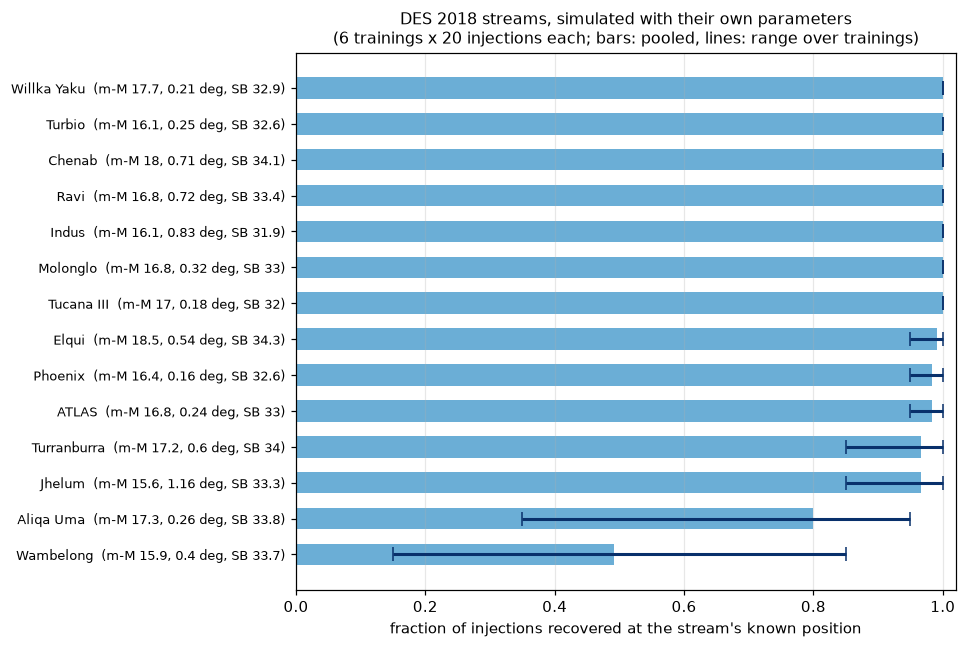
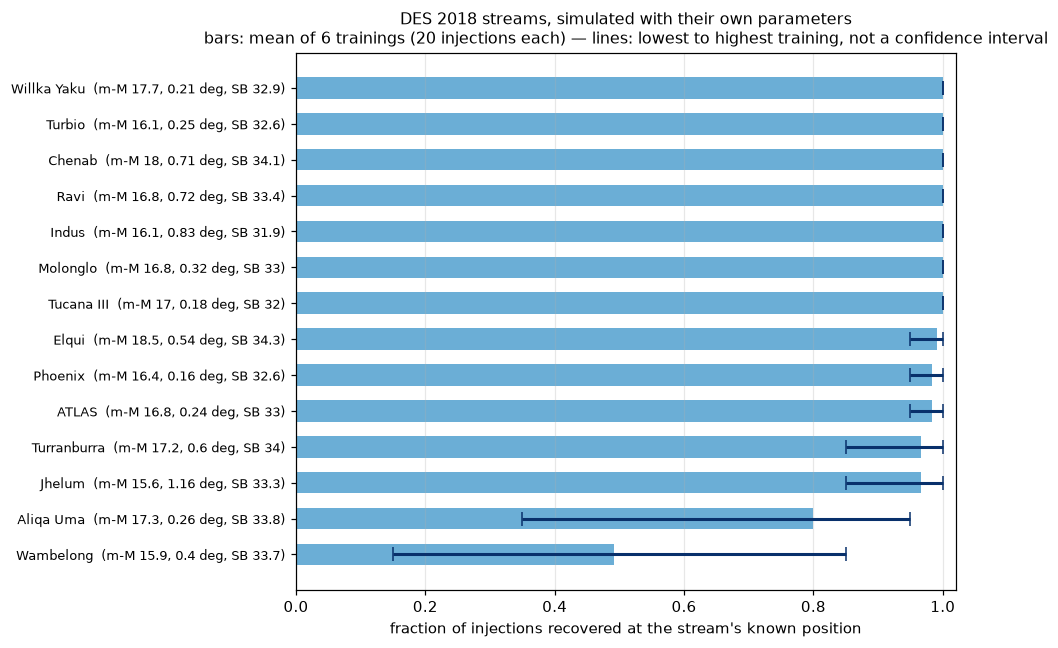
What a population mismatch actually costs, and what training saw
The scan says the mismatch itself is not the thing that matters. The
filter's own population is not the best one (Z = 0.0005 is recovered at 43%
against 33%), the isochrone family is worth nothing (32% against 33%), and
detection tracks how many stars a population puts through the filter at
fixed surface brightness, correlation 0.70. Young populations are the real
loss: 15% at 9 Gyr against 33%, fewer and brighter stars for the same
light. At width 0.6 none of it shows, which is why the scan runs at a point
with something to lose.

Also spells out what the six models scoring the DES figure were trained on,
since that figure rests on it: continuous ranges, an independent background
realization, and an expected 0.03 to 0.12 loosely-matching streams per
4800-window training.

diff --git a/scripts/experiments/stream_parameters/figures.py b/scripts/experiments/stream_parameters/figures.py
@@ -234,11 +234,12 @@ def figure_isochrone():
             }
         )
     table = pd.DataFrame(rows)
-    scanned = table[table.model == "Bressan2012"]
-    reference = {
-        width: group["fraction"].iloc[0]
-        for width, group in table[table.model == "Marigo2017"].groupby("width")
-    }
+    # The scan runs in the filter's own family; the other family appears once,
+    # at the filter's own values, to measure that systematic on its own.
+    scanned = table[table.model == "Marigo2017"]
+    own = scanned[(scanned.age == 12.0) & (scanned.z == 0.0002)]
+    reference = dict(zip(own["width"], own["fraction"], strict=True))
+    other = table[table.model != "Marigo2017"]
 
     fig, axes = plt.subplots(1, 2, figsize=(12, 4.6), sharey=True)
     held = {"age": 0.0002, "z": 12.0}
@@ -268,6 +269,18 @@ def figure_isochrone():
             if width in reference:
                 ax.axhline(reference[width], color=colour, ls=":", lw=1.2)
         ax.axvline(12.0 if varied == "age" else 0.0002, color="0.5", ls="--", lw=1.0)
+        for _, row in other.iterrows():
+            ax.plot(
+                row["age"] if varied == "age" else row["z"],
+                row["fraction"],
+                "x",
+                color=WIDTH_COLOURS[row["width"]],
+                ms=8,
+                mew=2,
+                label="Bressan2012, same values"
+                if (varied == "age" and row["width"] == 0.2)
+                else None,
+            )
         if varied == "z":
             ax.set_xscale("log")
         ax.set_xlabel(labels[varied])
@@ -282,8 +295,7 @@ def figure_isochrone():
     axes[0].legend(fontsize=9, loc="lower right")
     fig.suptitle(
         "Stream population against the filter's isochrone, SB 34, m-M 17\n"
-        "dashed: the filter's own values — dotted: its own population, "
-        "same width",
+        "dashed: the filter's own values — dotted: the rate there, per width",
         fontsize=10.5,
     )
     fig.tight_layout()

diff --git a/docs/source/experiments/stream_parameters.md b/docs/source/experiments/stream_parameters.md
@@ -379,7 +379,19 @@ stream-free sky.
 7. **Simulated with their own parameters, 12 of the 14 DES 2018 streams are
    recovered in at least 97% of injections** at their known positions, and the
    two exceptions (Wambelong 49%, Aliqa Uma 80%) are the ones the grid points
-   to. See the next section for what that does and does not mean.
+   to. See the next section for what that does and does not mean. The models
+   scoring this never saw those parameter values: a 4800-window training is
+   expected to contain 0.03 to 0.12 streams even loosely resembling a given
+   one of them.
+8. **A stream whose population is not the filter's isochrone is not thereby
+   harder to find** — the filter's own values are not the best point (Z =
+   0.0005 is recovered at 43% against 33%), and the isochrone family does not
+   matter at all (32% against 33%). What predicts detection is how many stars
+   the population puts through the filter at fixed surface brightness
+   (correlation 0.70). **The exception is young populations**: 9 Gyr against
+   the filter's 12 falls to 15% from 33%, fewer and brighter stars for the
+   same light. All of this is invisible where there is margin: at width 0.6
+   every population lands between 89% and 98%.
 
 ## The DES 2018 streams, simulated
 
@@ -388,8 +400,36 @@ several at once. So each of the 14 DES streams with measured parameters
 (Shipp et al. 2018) is simulated **with its own width, length, distance and
 surface brightness**, injected at random positions in the study region, and
 scored at its known track by the six quick models — 20 injections per model,
-120 per stream. Training never sees these values: it draws from the ranges
-above, so the model is not tuned to the streams it is asked to recover.
+120 per stream.
+
+### What the models scoring this figure were trained on
+
+Worth being exact, since the whole figure rests on it. The six models are the
+ordinary quick tier from earlier on this page. Nothing about them is specific
+to the DES streams:
+
+- Each training stream's parameters are **drawn independently from the
+  continuous ranges** in "Stream parameters in training" — surface brightness
+  uniform 32 to 34.5, width log-uniform 0.1 to 1.5 degrees, length uniform 4
+  to 30, m−M uniform 15 to 19, gradient uniform ±0.2 mag/deg. The ranges are
+  chosen to *bracket* the DES streams; the streams' own values are never
+  drawn from a list, and no DES parameter set is ever placed in training.
+- Each model sees 4800 such windows, 5% of them background-only, and is
+  trained for 40 epochs on the configuration the hyperparameter experiment
+  selected. The six differ only by seed, which changes both the drawn
+  parameters and the network's initialization.
+- The evaluation uses an **independent background realization** (a different
+  seed) from the one training windows are cut from, and each stream is
+  injected at random positions the model never saw.
+
+How close does a training draw ever get to a DES stream? Counting a draw as
+"close" if its width and length are within 5% and its m−M and surface
+brightness within 0.1 — far looser than a match — a 4800-window training is
+expected to contain **0.03 to 0.12** of them, depending on the stream (widest
+for ATLAS, narrowest for Tucana III). A typical model therefore saw *no*
+stream resembling any given DES stream on all four parameters at once. What
+the figure measures is generalization within the ranges, not recall of
+training examples.
 
 ```{image} figures/stream_parameters/des_streams.png
 :alt: Fraction of injections recovered for each of the 14 DES 2018 streams, with the range over the six trainings
@@ -535,6 +575,63 @@ the same integrated light either way, and what changes is where its stars sit
 in the colour-magnitude diagram, hence how many of them the filter's isochrone
 selects. A population the filter does not describe loses stars from the
 matched-filter map without becoming any fainter on the sky.
+
+#### What the mismatch costs
+
+```{image} figures/stream_parameters/isochrone.png
+:alt: Detection against the injected population's age and metallicity, at two widths
+:width: 100%
+```
+
+*Each point pools 120 injections (6 trainings × 20), with Wilson 68% bars.
+The dashed line marks the filter's own value, the dotted line the rate there,
+and the × is the other isochrone family at those same values.*
+
+| population | width 0.2 (33% at the filter's own) | width 0.6 (93%) |
+|---|---|---|
+| 9 Gyr, Z = 0.0002 | **15%** | 89% |
+| 10.5 Gyr, Z = 0.0002 | 22% | 89% |
+| **12 Gyr, Z = 0.0002** (the filter's) | 33% | 93% |
+| 13.5 Gyr, Z = 0.0002 | 29% | 98% |
+| 12 Gyr, Z = 0.0001 | 24% | 96% |
+| 12 Gyr, Z = 0.0005 | **43%** | 97% |
+| 12 Gyr, Z = 0.001 | 31% | 98% |
+| 9 Gyr, Z = 0.001 | 29% | 89% |
+| 13.5 Gyr, Z = 0.0001 | 38% | 97% |
+| 12 Gyr, Z = 0.0002, Bressan2012 | 32% | 94% |
+
+Three things come out of it, and the second is not what the test was set up to
+find.
+
+**1. The isochrone family does not matter.** Bressan2012 at the filter's own
+age and metallicity gives 32% against Marigo2017's 33%, and 94% against 93%.
+Whatever the mismatch costs, it is not sensitive to which library the stream
+was drawn from.
+
+**2. Mismatch alone does not predict the loss — the filter's own population is
+not the best one.** Z = 0.0005 is detected at 43% against the matched 33%, and
+(13.5 Gyr, Z = 0.0001) at 38%. A pure mismatch penalty would peak at the
+filter's own values and fall away on both sides; this does not.
+
+What does predict it is **how many stars the population puts through the
+filter**. Across the ten populations, detection correlates with the
+filter-selected star count at 0.70 (width 0.2). Surface brightness is held
+fixed, so a population with fainter stars per unit light simply has *more* of
+them, and more survive to be selected: 499 selected stars at 9 Gyr against 624
+at (12 Gyr, Z = 0.0005), the best-detected point. The mismatch penalty and the
+star-count gain pull in opposite directions, and over this range the star
+count usually wins.
+
+**3. Young populations are the real risk.** The clear loss is at 9 Gyr: 15%
+against 33%, less than half, and the bars do not overlap. At fixed surface
+brightness a young population's light sits in fewer, brighter stars, so
+fewer of them clear the detection limit at all. Metal-rich mismatch, over the
+metal-poor range streams actually occupy, costs nothing.
+
+None of this is visible at width 0.6, where every population lands between
+89% and 98%: with enough margin the choice of population barely registers.
+That is the argument for scanning at an operating point with something to
+lose.
 
 ### Training ranges that do not aim at these streams
 
